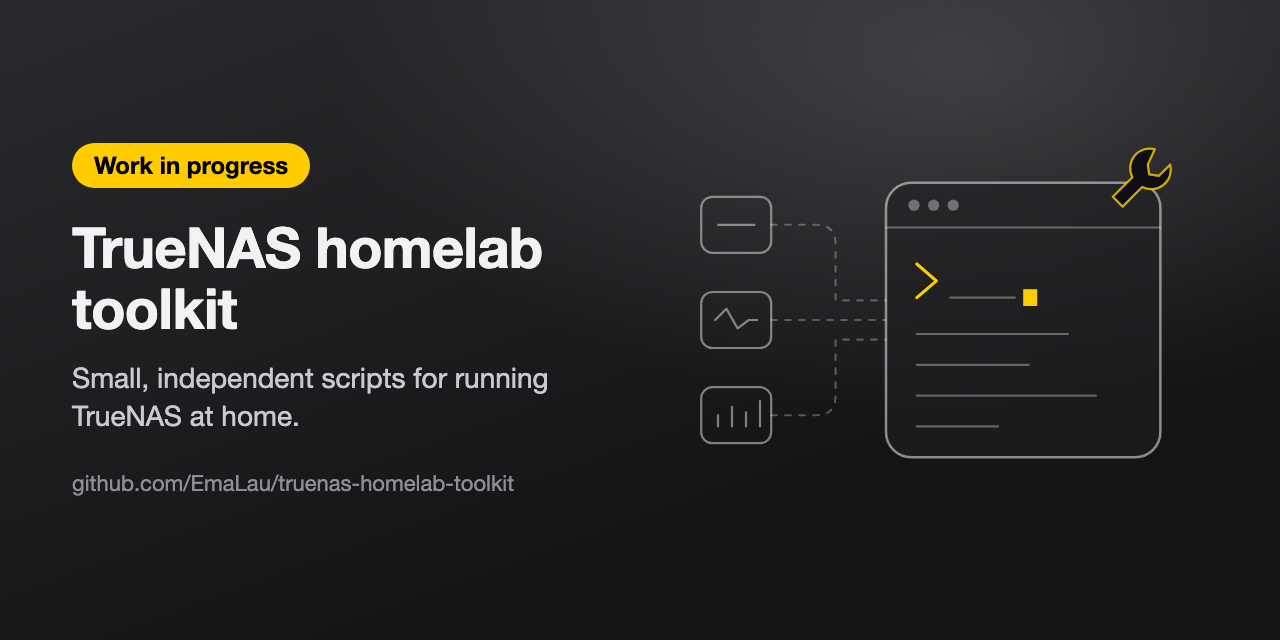
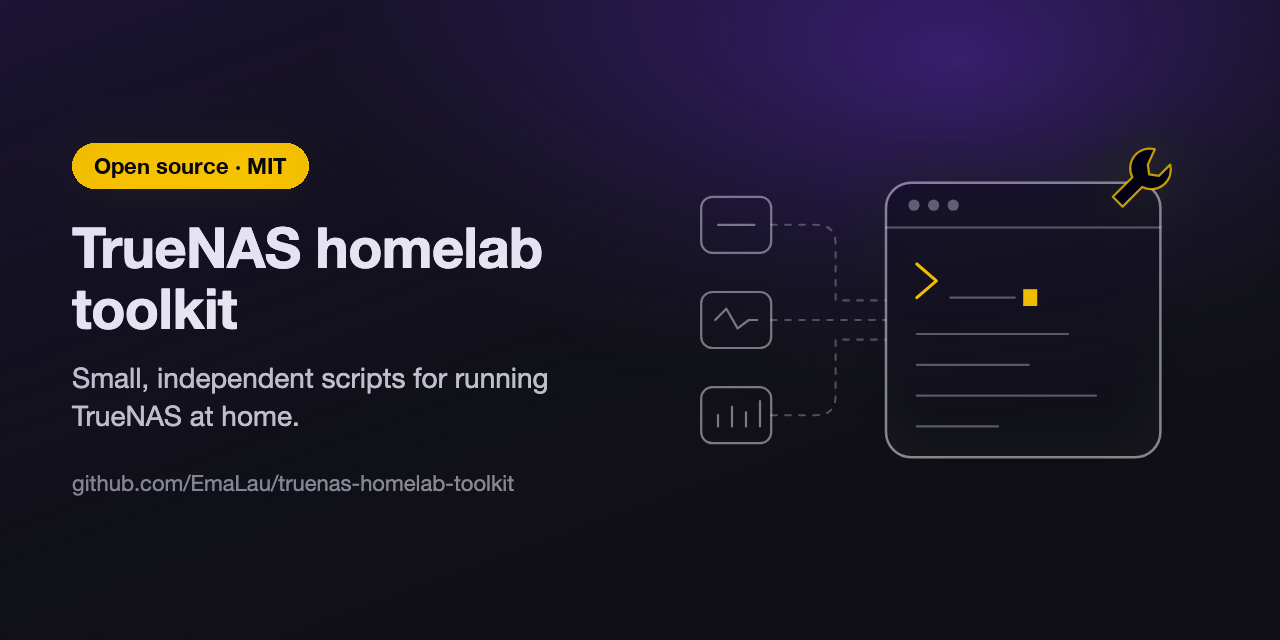
lan-guard dry-run, pool health in storage-status, "Why" sections
- lan-guard: `dry-run` prints the rules apply would create (iptables-save
  syntax, no root); apply and dry-run share one rule generator. Ports are
  validated before the firewall is touched. 9 new container tests.
- storage-status: per pool, `healthy`, the last scrub or resilver (`scan`)
  and every disk with its error counters. New fields only, schema_version
  stays 1; schema and example updated.
- README: a "Why" section for every script.
- Social preview and README cover in the purple of released projects.

Changed region(s): [[0.4062, 0.0, 0.9688, 0.3125], [0.0625, 0.25, 0.25, 0.2812]]

diff --git a/storage-status/storage-status.py b/storage-status/storage-status.py
@@ -122,6 +122,58 @@ def schema_regex(naming_schema):
     )
 
 
+def epoch(value):
+    """midclt dates look like {"$date": <milliseconds>}."""
+    if isinstance(value, dict) and isinstance(value.get("$date"), (int, float)):
+        return int(value["$date"] // 1000)
+    return None
+
+
+def scan_status(scan, now):
+    """Last scrub or resilver of a pool (ZFS keeps only the most recent one)."""
+    if not scan or not scan.get("function"):
+        return None
+    end = epoch(scan.get("end_time"))
+    pct_done = scan.get("percentage")
+    # Only meaningful while running (ZFS can report a bit over 100 %).
+    progress = min(round(pct_done, 1), 100) if scan.get("state") == "SCANNING" and pct_done is not None else None
+    return {
+        "function": scan["function"],
+        "state": scan.get("state"),
+        "start": epoch(scan.get("start_time")),
+        "end": end,
+        "errors": scan.get("errors"),
+        "progress_pct": progress,
+        "age_hours": round((now - end) / 3600, 2) if end else None,
+    }
+
+
+def pool_disks(topology):
+    """Every disk of a pool, from all vdev groups (data, cache, log, spare, special, dedup)."""
+    disks = []
+
+    def walk(vdev, role):
+        if vdev.get("type") == "DISK":
+            stats = vdev.get("stats") or {}
+            disks.append(
+                {
+                    "name": vdev.get("disk") or vdev.get("name"),
+                    "role": role,
+                    "status": vdev.get("status"),
+                    "read_errors": stats.get("read_errors"),
+                    "write_errors": stats.get("write_errors"),
+                    "checksum_errors": stats.get("checksum_errors"),
+                }
+            )
+        for child in vdev.get("children") or []:
+            walk(child, role)
+
+    for role, vdevs in (topology or {}).items():
+        for vdev in vdevs or []:
+            walk(vdev, role)
+    return disks
+
+
 def zfs(*args):
     return subprocess.check_output(["zfs", "list", "-H", "-p", *args], text=True, timeout=120).splitlines()
 
@@ -145,6 +197,9 @@ def main():
             "free": free,
             "used": size - free if size is not None and free is not None else None,
             "free_pct": pct(free, size),
+            "healthy": p.get("healthy"),
+            "scan": scan_status(p.get("scan"), now),
+            "disks": pool_disks(p.get("topology")),
         }
 
     for c in midclt("cloudsync.credentials.query"):

diff --git a/README.md b/README.md
@@ -20,17 +20,22 @@ All scripts run as root from TrueNAS cron jobs or init scripts (System → Advan
 
 ## lan-guard
 
-Apps published by Docker are reachable from the whole LAN, usually without a login. `lan-guard.sh` drops **new** connections that arrive on the LAN interface for a list of ports, while VPN (e.g. Tailscale), localhost, SSH and the TrueNAS UI keep working: it cannot lock you out.
+**Why.** A TrueNAS app is published on a host port, and Docker opens that port to every device on the LAN, ahead of any firewall rule you would normally write: Docker inserts its own rules and translates the address before `INPUT` ever sees the packet. Dashboards like Uptime Kuma, Scrutiny or Dozzle often have no login, or a weak one, so anything on the home network (a guest's phone, a smart TV, a compromised IoT device) can open them. Most people only reach these tools over a VPN anyway, so the LAN does not need them at all.
+
+`lan-guard.sh` drops **new** connections that arrive on the LAN interface for a list of ports, while VPN (e.g. Tailscale), localhost, SSH and the TrueNAS UI keep working: it cannot lock you out.
 
 - Docker DNATs published ports before filtering, so the rules live in `DOCKER-USER` and match the original port with conntrack; a second chain in `INPUT` covers connections that reach `docker-proxy` directly (e.g. over IPv6).
 - Rules are rebuilt in a temporary chain and swapped, so there is never a moment without them.
 
 ```bash
 cp lan-guard/lan-guard.conf.example lan-guard/lan-guard.conf   # set LAN_IF and PORTS
+lan-guard.sh dry-run  # print the rules, change nothing (no root needed)
 lan-guard.sh          # apply (idempotent)
 lan-guard.sh status   # rules and hit counters
 lan-guard.sh off      # remove everything
 ```
+
+Ports must be numbers from 1 to 65535; anything else stops the script before it touches the firewall. Run `dry-run` first: it prints, in `iptables-save` syntax, exactly the rules `apply` would create.
 
 Add it as a **post-init** script and as a cron job every 5 minutes: TrueNAS and Docker can rebuild their firewall rules.
 
@@ -43,7 +48,9 @@ Limits to know:
 
 ## heartbeat
 
-Every monitoring tool that runs on the NAS goes silent when the NAS goes down. `heartbeat.sh` runs every minute from cron and has two independent parts. Both are optional: a part without its settings is skipped.
+**Why.** A monitoring tool that runs on the NAS cannot tell you the NAS is down: when the box freezes, loses power or drops off the internet, it goes silent with everything else, and silence looks exactly like "all good". The check has to be turned around: the NAS proves it is alive every minute, and something *outside* raises the alarm when the proof stops arriving.
+
+`heartbeat.sh` runs every minute from cron and has two independent parts. Both are optional: a part without its settings is skipped.
 
 ```bash
 cp heartbeat/heartbeat.conf.example heartbeat/heartbeat.conf
@@ -58,9 +65,12 @@ The script warns on stderr if `heartbeat.conf` is readable by other users, and e
 
 ## storage-status
 
+**Why.** The numbers that tell you a NAS is heading for trouble are spread across the TrueNAS UI: pool space on one page, scrub results and disk errors on another, snapshot tasks on a third, cloud space nowhere at all. Dashboards such as Homepage can show a JSON file, but should not hold an admin API key for TrueNAS or your cloud credentials. This script gathers everything as root, once every half hour, into one file that any dashboard or bot can read without credentials.
+
 Collects, through the TrueNAS middleware (`midclt`), `zfs` and `rclone`:
 
 - status, size and free space of every pool;
+- pool health, the last scrub or resilver (state, errors, age) and every disk with its read, write and checksum error counters;
 - used and free space of the cloud credentials that report it: **OneDrive and Google Drive** only, other providers are skipped;
 - space used by snapshots in every pool;
 - for every dataset with a periodic snapshot task: number of snapshots, the newest one and its age, space used. Snapshots are matched with the task's naming schema, so manual snapshots are not counted.
@@ -72,7 +82,13 @@ The result is a single JSON file (`$STORAGE_STATUS_OUT`, default `/var/tmp/stora
  "schema_version": 1,
  "generated_at": "2026-11-19T16:31:30+01:00",
  "pools": {
-  "tank": {"status": "ONLINE", "size": 27986006900736, "free": 27234230513664, "used": 751776387072, "free_pct": 97}
+  "tank": {"status": "ONLINE", "size": 27986006900736, "free": 27234230513664, "used": 751776387072, "free_pct": 97,
+           "healthy": true,
+           "scan": {"function": "SCRUB", "state": "FINISHED", "start": 1792879202, "end": 1792879863,
+                    "errors": 0, "progress_pct": null, "age_hours": 619.67},
+           "disks": [
+            {"name": "sda", "role": "data", "status": "ONLINE", "read_errors": 0, "write_errors": 0, "checksum_errors": 0}
+           ]}
  },
  "cloud": {
   "Microsoft OneDrive": {"id": 1, "provider": "onedrive", "status": "OK",
@@ -86,11 +102,15 @@ The result is a single JSON file (`$STORAGE_STATUS_OUT`, default `/var/tmp/stora
 }
 ```
 
+ZFS keeps only the most recent scan of a pool, so `scan` is the last scrub *or* resilver. A full example, with a degraded pool during a resilver and an offline pool, is in [`tests/storage-status.example.json`](tests/storage-status.example.json). New fields can be added without changing `schema_version`, which only goes up on incompatible changes.
+
 Cloud status is `OK`, `LOW` (under 20 % free), `CRITICAL` (under 10 %) or `ERROR` (with an `error` field).
 
 **Cloud tokens.** To read the cloud space, the script passes the TrueNAS cloud credentials to `rclone about` through a temporary config file (mode 600, deleted afterwards). rclone refreshes OAuth tokens when they expire; like TrueNAS after a cloud sync, the script saves the refreshed token back to the credential (`cloudsync.credentials.update`), so the stored one never goes stale.
 
 ## system-backup example
+
+**Why.** The copies TrueNAS keeps of its own configuration stay on the NAS, so they are lost along with it, and a ZFS snapshot of a running database folder is not guaranteed to restore. A useful nightly backup has to dump the databases properly, save the TrueNAS config with its secret seed, and check that each piece can actually be read back. This example shows one way to do all of it.
 
 `examples/system-backup.sh` is the nightly backup of the original homelab, **kept as a reference, not a drop-in script**: it names that system's apps and folders, and it stops and restarts some apps. Everything tied to that system is in one *Site-specific settings* block at the top (apps to stop, `app.config` list, PostgreSQL containers, folders to archive, required files); the per-app stop and restart logic needs adapting too. The pool that holds the backups is set with `DATA_POOL` (default `tank`), the folder with the app data with `APPS_ROOT` (default `/mnt/Apps`). What it shows:
 
@@ -112,7 +132,7 @@ docker run --rm --cap-add NET_ADMIN -v "$PWD":/src:ro alpine:3.20 \
 
 ## Roadmap
 
-What is missing before the first public release, and the features planned after it, are in [ROADMAP.md](ROADMAP.md).
+Planned features are in [ROADMAP.md](ROADMAP.md).
 
 ## License
 

diff --git a/CHANGELOG.md b/CHANGELOG.md
@@ -2,6 +2,15 @@
 
 All notable changes to this project are documented here. The format follows [Keep a Changelog](https://keepachangelog.com/en/1.1.0/), and versions follow [Semantic Versioning](https://semver.org/).
 
+## [Unreleased]
+
+### Added
+
+- `lan-guard dry-run`: prints the rules `apply` would create, in `iptables-save` syntax, without changing anything and without root.
+- `lan-guard`: ports are checked (numbers from 1 to 65535) before the firewall is touched.
+- `storage-status`: for every pool, `healthy`, the last scrub or resilver (`scan`: state, errors, progress, age) and every disk with its status and read, write and checksum errors. New fields only: `schema_version` stays 1.
+- README: a "Why" section for every script.
+
 ## [1.0.0] — 2026-11-19
 
 First public release: every script made generic, documented and tested.
@@ -31,4 +40,5 @@ First public release: every script made generic, documented and tested.
 - `storage-status`: no crash when a pool reports size 0.
 - `storage-status`: `generated_at` now has a time zone (ISO 8601).
 
+[Unreleased]: https://github.com/EmaLau/truenas-homelab-toolkit/compare/v1.0.0...HEAD
 [1.0.0]: https://github.com/EmaLau/truenas-homelab-toolkit/releases/tag/v1.0.0

diff --git a/ROADMAP.md b/ROADMAP.md
@@ -13,11 +13,11 @@ Each script made generic, documented and safe to try on someone else's NAS: Engl
 In order of priority.
 
 1. **lan-guard**
-   - `dry-run` mode that prints the rules without applying them.
+   - ~~`dry-run` mode that prints the rules without applying them.~~ Done, see the [changelog](CHANGELOG.md).
    - Per-port allowlist of LAN addresses (e.g. let one desktop reach an admin port).
    - Optional logging of dropped connections, rate-limited.
 2. **storage-status**
-   - Age of the last ZFS scrub and its result for every pool.
+   - ~~Age of the last ZFS scrub and its result for every pool.~~ Done, with pool health and per-disk errors.
    - Optional Prometheus *textfile* output next to the JSON file.
 3. **heartbeat**
    - Generic checks: any command whose exit code becomes an up/down push, so one script can watch several services.
